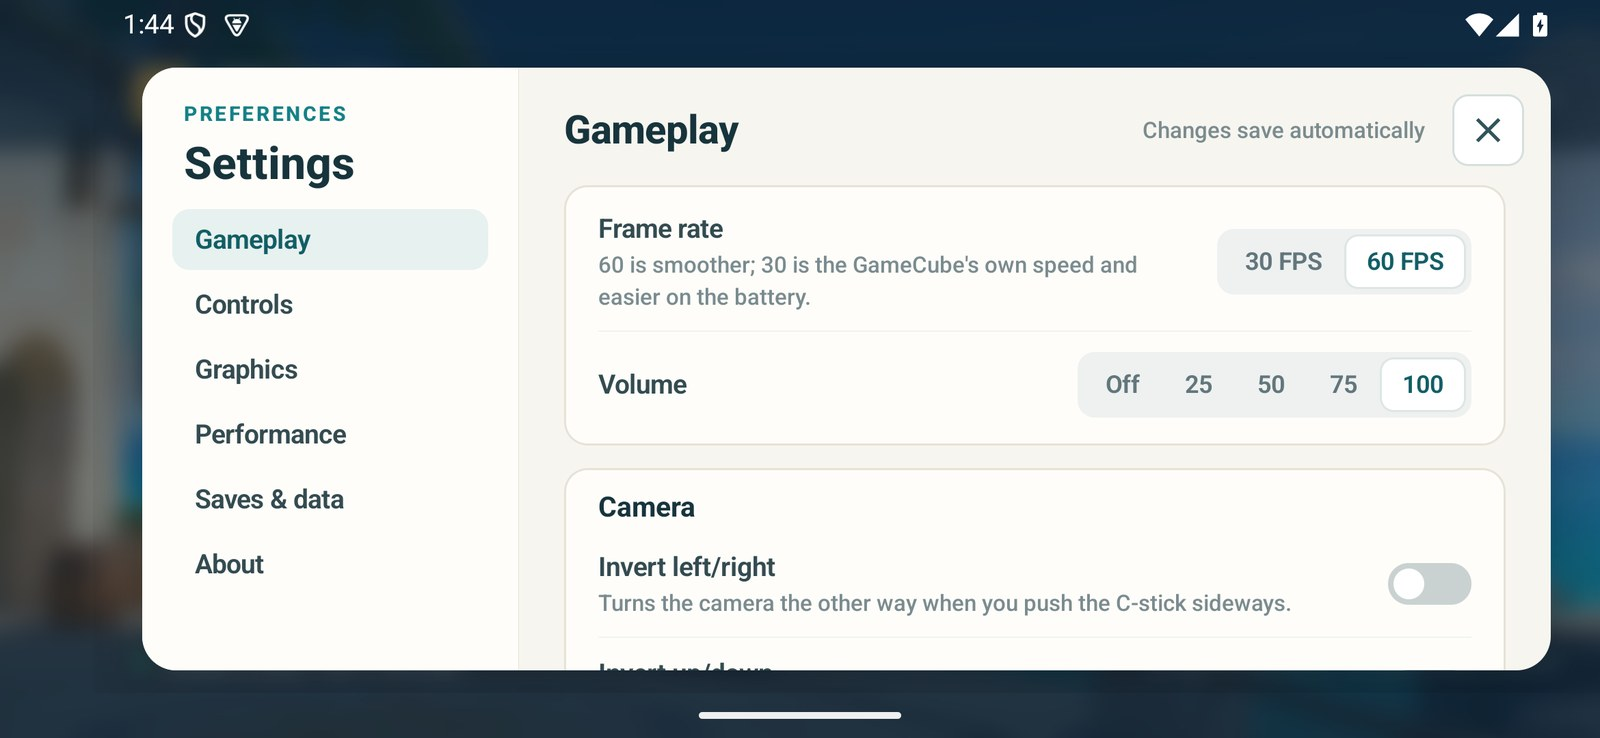
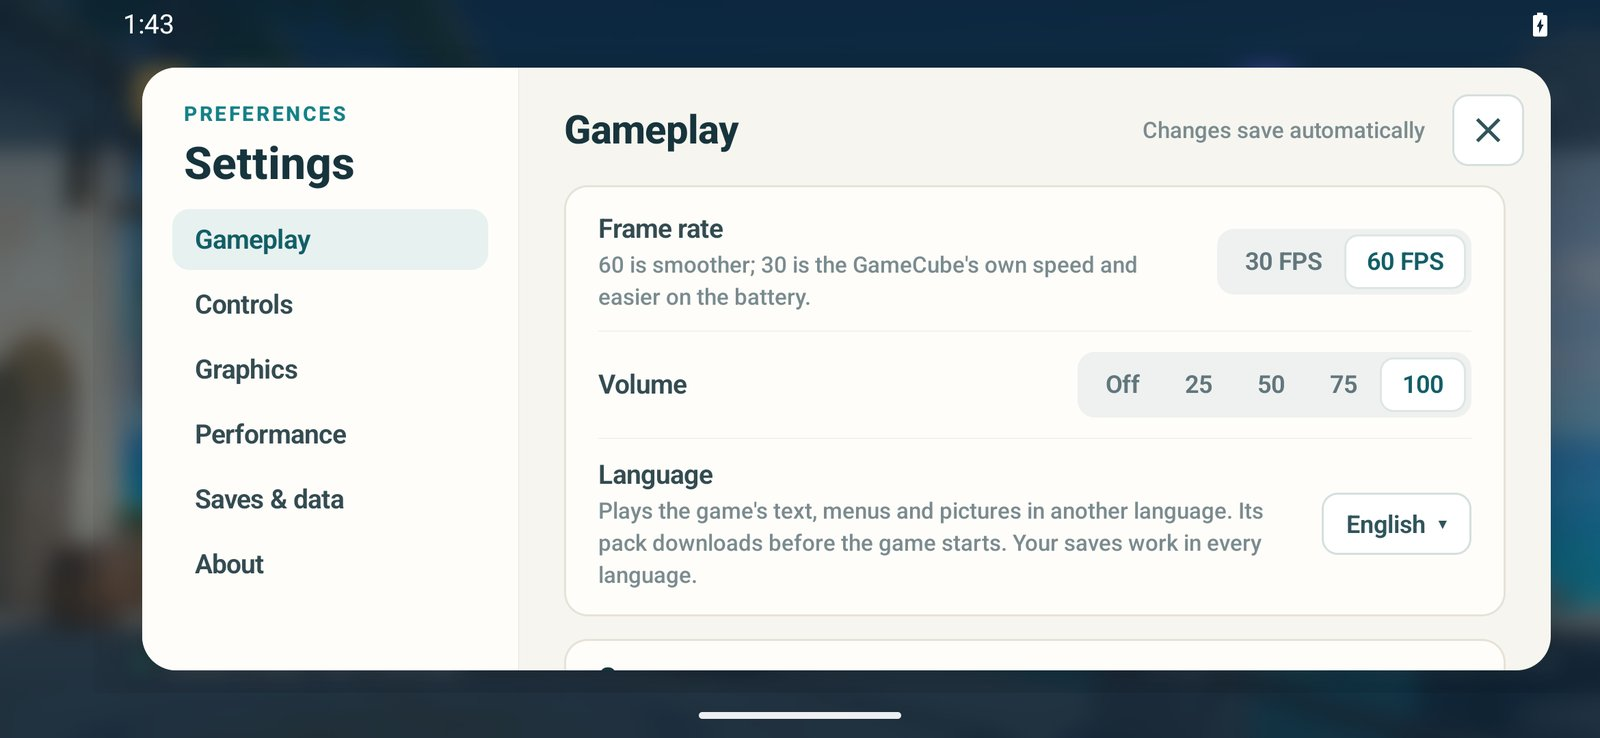
Release 1.2.0, with new screenshots of the launcher in the README
1.2.0 is a full release (above 1.1.0's version code): the language
setting, the update notice and the Discord button. The screenshots show
the Discord button and the Language row.

diff --git a/README.md b/README.md
@@ -15,8 +15,8 @@ macOS and Linux, use the desktop
 [SMS Launcher](https://github.com/chasem-dev/sms-launcher) instead.
 
 <p align="center">
-  <img src="docs/screenshots/main-menu.jpg" width="49%" alt="The launcher's main menu: the seaside artwork with Super Mario Sunshine, Ready when you are, a big yellow Play button and a settings button">
-  <img src="docs/screenshots/settings-gameplay.jpg" width="49%" alt="Settings, Gameplay page: frame rate, volume and camera inversion, with pages for Controls, Graphics, Performance, Saves and data, and About">
+  <img src="docs/screenshots/main-menu.jpg" width="49%" alt="The launcher's main menu: the seaside artwork with Super Mario Sunshine, Ready when you are, a big yellow Play button, a settings button, and a Discord button in the top bar">
+  <img src="docs/screenshots/settings-gameplay.jpg" width="49%" alt="Settings, Gameplay page: frame rate, volume, language and camera inversion, with pages for Controls, Graphics, Performance, Saves and data, and About">
 </p>
 
 ## Download
@@ -159,7 +159,8 @@ copies it into private app storage; allow enough free space for that copy.
 The button then reads **Play**. The gear beside it (or Start on a controller)
 opens Settings: Gameplay, Controls, Graphics, Performance, Saves & data and
 About. Changes save as you make them. A controller's D-pad or stick moves
-through the launcher, A selects and B goes back.
+through the launcher, A selects and B goes back. The Discord button in the top
+bar opens an invite to the Discord server.
 **Language** under Gameplay plays the game in English (the default, the
 disc's own text) or in any language pack the game's
 `tools/mods/language-packs.json` lists: Deutsch, Español, Français, Italiano
